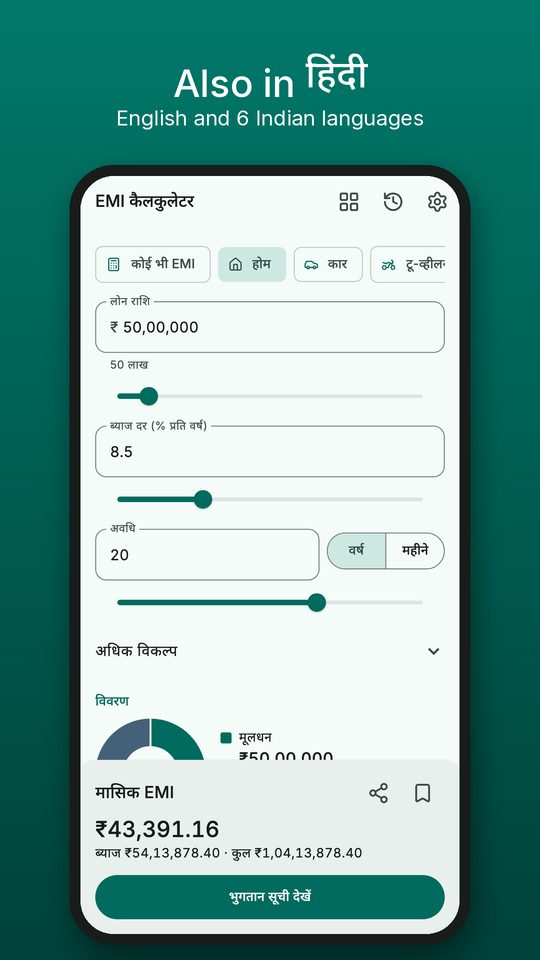
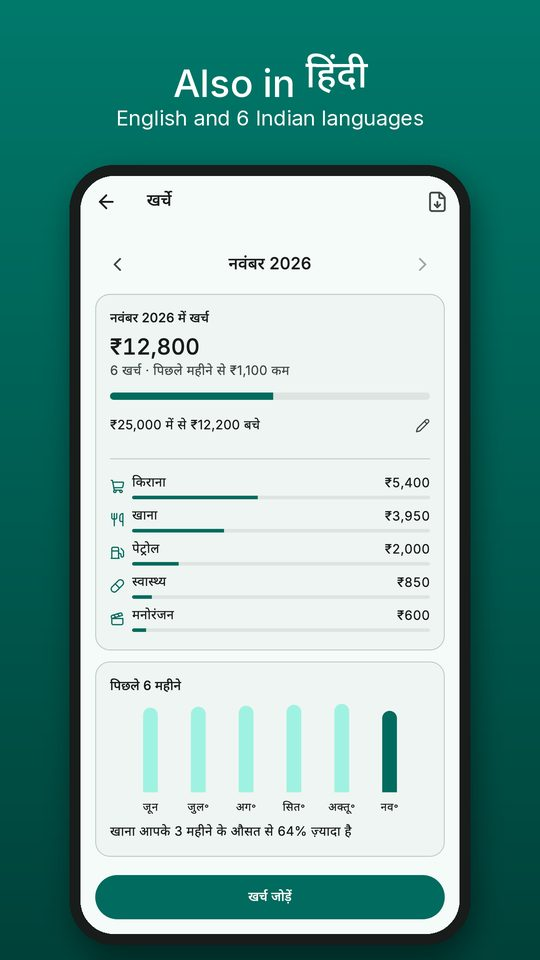
Show Expenses and Goals screenshots

diff --git a/index.html b/index.html
@@ -7,7 +7,7 @@
 <meta name="description" content="Kharche Calculator is a free EMI and loan calculator made for India, with bill reminders, an udhaar ledger, a credit card payoff plan and 30+ money tools, in English and 6 Indian languages.">
 <meta property="og:title" content="Kharche Calculator: your money, at a glance">
 <meta property="og:description" content="EMI calculator, bill reminders, udhaar ledger, loan tracker and 30+ money tools for India.">
-<meta property="og:image" content="img/3_tools.jpg">
+<meta property="og:image" content="img/1_home.jpg">
 <link rel="icon" href="img/icon.png">
 <style>
   :root {
@@ -91,7 +91,7 @@
         <a class="cta" href="https://play.google.com/store/apps/details?id=com.rajmalviya.kistt">Get it on Google Play</a>
         <p class="note">No account needed. Your data stays on your phone.</p>
       </div>
-      <img class="phone" src="img/3_tools.jpg" alt="Kharche Home: bills due, loans, udhaar and cards at a glance, and popular tools">
+      <img class="phone" src="img/1_home.jpg" alt="Kharche Home: net worth, bills due, spending, loans and udhaar at a glance">
     </div>
   </div>
 </header>
@@ -124,10 +124,11 @@
     <h2>See it</h2>
     <p class="sub">Real screens from the app.</p>
     <div class="shots">
-      <img src="img/1_calculator.jpg" alt="EMI calculator" loading="lazy">
-      <img src="img/5_bills.jpg" alt="Bills and dues" loading="lazy">
+      <img src="img/2_expenses.jpg" alt="Expenses with a monthly budget" loading="lazy">
+      <img src="img/3_bills.jpg" alt="Bills and dues" loading="lazy">
+      <img src="img/4_goals.jpg" alt="Savings goals" loading="lazy">
+      <img src="img/5_calculator.jpg" alt="EMI calculator" loading="lazy">
       <img src="img/6_ledger.jpg" alt="Udhaar ledger" loading="lazy">
-      <img src="img/7_cards.jpg" alt="Credit card payoff" loading="lazy">
       <img src="img/8_hindi.jpg" alt="Kharche in Hindi" loading="lazy">
     </div>
   </div>
